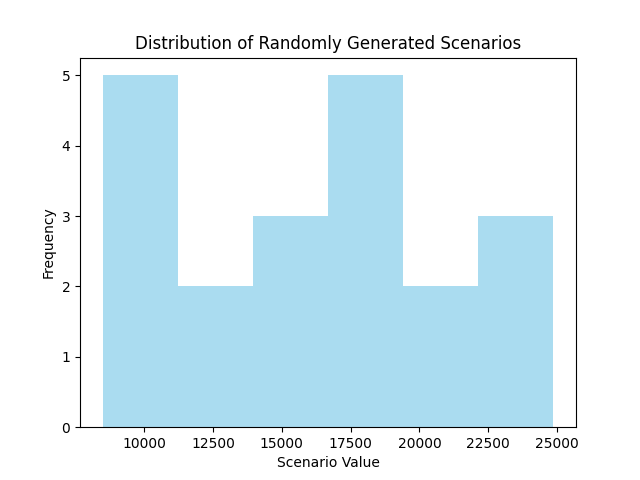
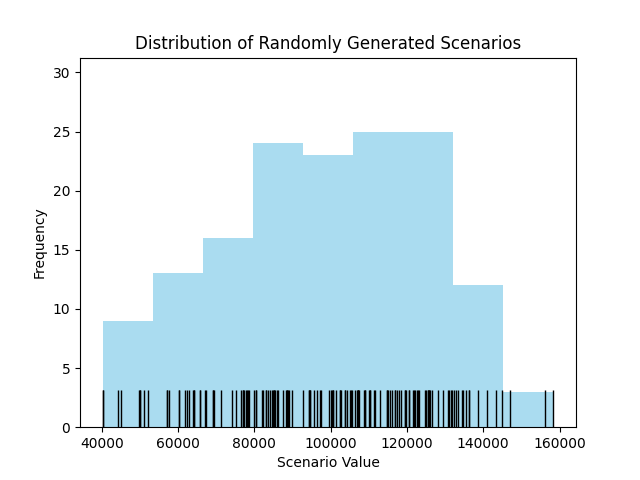
Fixing a bug with creating strategies. Modifying the front end. Creating a plotting function.

diff --git a/static/styles.css b/static/styles.css
@@ -1,31 +1,69 @@
 /* styles.css */
 
 .form-row {
-    display: flex;
-    align-items: center;
-    justify-content: space-between;
-    margin-bottom: 10px;
-  }
-  
-  .form-row label {
-    flex: 0 0 120px;
-    margin-right: 10px;
-  }
-  
-  .form-row input {
-    flex: 1 0 100px;
-  }
+  display: flex;
+  align-items: center;
+  justify-content: space-between;
+  margin-bottom: 10px;
+}
+
+.form-row label {
+  flex: 0 0 120px;
+  margin-right: 10px;
+}
+
+.form-row input {
+  flex: 1 0 100px;
+}
 
 
-  .form-container {
-    width: 500px;
-    margin: 0 auto;
-  }
+.form-container {
+  width: 500px;
+  margin: 0 auto;
+}
 
-  h1 {
-    text-align: center;
-  }
+h1 {
+  text-align: center;
+}
 
-  body {
-    font-family: 'Lato', sans-serif;
-  }
+.centered-nav {
+  display: flex;
+  justify-content: center;
+  margin-bottom: 20px;
+  background-color: #333;
+  padding: 10px;
+}
+
+.centered-nav ul {
+  list-style-type: none;
+  padding: 0;
+}
+
+.centered-nav ul li {
+  display: inline;
+  margin: 0 10px;
+}
+
+.centered-nav ul li a {
+  text-decoration: none;
+  color: #fff;
+  font-size: 24px;
+}
+
+
+body {
+  font-family: 'Lato', sans-serif;
+  background-color: #979797;
+}
+
+.container {
+  background-color: #fff;
+  padding: 20px;
+  border-radius: 8px;
+}
+
+.main-section {
+  background-color: #979797; /* Adjust the color as desired */
+  padding: 20px;
+  border-radius: 8px;
+}

diff --git a/templates/base.html b/templates/base.html
@@ -8,6 +8,19 @@
     {% block head %}{% endblock %}
 </head>
 <body>
-    {% block body %}{% endblock %}
+    <header>
+        <nav class="centered-nav">
+            <ul>
+                <li><a href="{{ url_for('buy') }}">Buy</a></li>
+                <li><a href="{{ url_for('sell') }}">Sell</a></li>
+                <li><a href="#">Scenario</a></li>
+            </ul>
+        </nav>
+    </header>
+    <div class="main-section">
+    <main>
+        {% block body %}{% endblock %}
+    </main>
+    </div>
 </body>
 </html>

diff --git a/templates/index.html b/templates/index.html
@@ -3,7 +3,6 @@
 {% endblock %}
 
 {% block body %}
-<a href="/buy.html">Buy</a>
-<a href="/sell.html">Sell</a>
+
 {% endblock %}
 

diff --git a/app.py b/app.py
@@ -3,9 +3,11 @@ import random
 from flask_sqlalchemy import SQLAlchemy
 from flask_wtf import FlaskForm
 import matplotlib
+import numpy as np
 matplotlib.use('Agg')
 import matplotlib.pyplot as plt
 import os
+import seaborn as sns
 from wtforms import Form, FloatField, IntegerField, StringField, SubmitField
 from wtforms.validators import DataRequired, NumberRange
 
@@ -44,8 +46,25 @@ def trunc(a, x):
     int1 = int(a * (10**x))/(10**x)
     return float(int1)
 
+def plot_histogram(data, filename):
+    # Generate histogram
+    plt.hist(data, bins='auto', color='skyblue', alpha=0.7)
+
+    # Add rug plot
+    sns.rugplot(data, height=0.1, color='black')
+
+    # Customize labels and title
+    plt.xlabel('Scenario Value')
+    plt.ylabel('Frequency')
+    plt.title('Distribution of Randomly Generated Scenarios')
+
+    # Save the modified histogram plot
+    plt.savefig(os.path.join(app.root_path, 'static', filename))
+    plt.close()
+
 def sell_order(coins, str_steps, price_normalize, scenario, file=None):
-    profit = 0    
+    profit = 0
+    file.write(f"Coins: {coins} - ")
     for i, val in enumerate(str_steps):
         try:
             val = int(val)
@@ -56,11 +75,13 @@ def sell_order(coins, str_steps, price_normalize, scenario, file=None):
             sell = sell_amount * int(val)
             coins -= sell_amount
             profit += sell
-            file.write(f"Sell order - Coins: {coins}, Step: {val}, Profit: {profit}\n")
+            file.write(f"at {val}, sold {sell_amount} for {sell}. Total Profit: {profit}\n")
+            file.flush()
     return profit, coins
 
 def buy_order(money, str_steps, price_normalize, scenario, file=None):
-    coins = 0    
+    coins = 0
+    file.write(f"Buy order - Coins: {coins}, Step: {val}, Money: {money}\n")
     for i, val in enumerate(str_steps):
         try:
             val = int(val)
@@ -71,30 +92,28 @@ def buy_order(money, str_steps, price_normalize, scenario, file=None):
             buy = buy_amount * int(val)
             money -= buy_amount
             coins += buy
-            file.write(f"Buy order - Coins: {coins}, Step: {val}, Money: {money}\n")
+            file.write(f"Coins: {coins}, Step: {val}, Money: {money}\n")
+            file.flush()
     return money, coins
 
-
-# Sell Strategies
-
-sell_bottom = 0
-sell_top = 1
-step_size = 1
-steps = 1
-step_increment = 1
 sell_strategies = []
 buy_strategies = []
 
 
 def create_sell_strategies(sell_bottom, sell_top, steps, step_increment):
+    sell_strategies.clear()
     for i in range(sell_bottom, sell_top, step_increment):
         for j in range(i+step_increment, sell_top+1, step_increment):
             sell_strategies.append({"name": f"Strategy {i}-{j}", "sell_top": j, "sell_bottom": i, "steps": steps})
 
 def create_buy_strategies(buy_bottom, buy_top, steps, step_increment):
+    buy_strategies.clear()
     for i in range(buy_bottom, buy_top, step_increment):
         for j in range(i+step_increment, buy_top+1, step_increment):
             buy_strategies.append({"name": f"Strategy {i}-{j}", "buy_top": j, "buy_bottom": i, "steps": steps})
+
+
+
  
 @app.route('/')
 def index():
@@ -113,23 +132,22 @@ def sell():
         mu = float(form.mu.data)
         sigma = float(form.sigma.data)
         number_sce = int(form.number_sce.data)
-
-        # Print form field values
-        # print("coins:", coins)
-        # print("sell_bottom:", sell_bottom)
-        # print("sell_top:", sell_top)
-        # print("steps:", steps)
-        # print("mu:", mu)
-        # print("sigma:", sigma)
-        # print("number_sce:", number_sce)
-       
+      
         create_sell_strategies(sell_bottom, sell_top, steps, step_increment)
         scenarios = [random.gauss(mu, sigma) for i in range(number_sce)]
+        scenarios_str = ', '.join(map(str, scenarios))
+        plot_histogram(scenarios, 'histogram.png')
         with open('sell_report.txt', 'w') as file:
+            file.write(f"User input: coins: {coins}, sell_bottom: {sell_bottom}, sell_top: {sell_top,}, steps: {steps}, step_increment: {step_increment}, mu: {mu}, sigma: {sigma}, number_sce: {number_sce}\n\n")
+            file.write(f"Sell Strategies:\n{sell_strategies}\n\n")
+            file.write(f"Scenarios\n{scenarios_str}\n\n")
+            file.flush()
             for strategy in sell_strategies:
                 total_profit = 0
                 step_size = (strategy["sell_top"] - strategy["sell_bottom"]) / (strategy["steps"] - 1)
                 str_steps = []
+                file.write(f"\nStrategy: {strategy}\n")
+                file.flush()
                 for i in range(strategy["steps"]):
                     price = strategy["sell_bottom"] + (i * step_size)
                     str_steps.append(price)
@@ -140,6 +158,7 @@ def sell():
                 price_normalize = price_sum / price_denom
                 # print(price_normalize)
                 for scenario in scenarios:
+                    file.write(f"\nScenario: {scenario}\n")
                     coins = float(form.coins.data)
                     profit, coins = sell_order(coins, str_steps, price_normalize, scenario, file=file)
                     total_profit += profit
@@ -149,13 +168,6 @@ def sell():
                 strategy_profits.append((strategy['name'], avg_profit))
                         
         sorted_strategies = sorted(strategy_profits, key=lambda x: x[1], reverse=True)       
-        plt.hist(scenarios, bins='auto', color='skyblue', alpha=0.7)
-        plt.xlabel('Scenario Value')
-        plt.ylabel('Frequency')
-        plt.title('Distribution of Randomly Generated Scenarios')
-        plt.savefig(os.path.join(app.root_path, 'static', 'histogram.png'))
-        plt.close()
-
 
         if not strategy_profits:
             flash('No results found.', 'warning')
@@ -168,6 +180,7 @@ def sell():
 def buy():
     form = BuyForm()
     strategy_amounts = []
+    # Validate forms
     if form.validate_on_submit():
         money = float(form.money.data)
         buy_bottom = int(form.buy_bottom.data)
@@ -177,15 +190,15 @@ def buy():
         mu = float(form.mu.data)
         sigma = float(form.sigma.data)
         number_sce = int(form.number_sce.data)
-
         # Generate scenarios
         scenarios = [random.gauss(mu, sigma) for _ in range(number_sce)]
-
+        # Plot histogram
+        plot_histogram(scenarios, 'histogram.png')
         # Create buy strategies
-        create_buy_strategies(buy_bottom, buy_top, steps, step_increment)
-        
+        create_buy_strategies(buy_bottom, buy_top, steps, step_increment)        
         # Calculate total number of coins bought for each strategy
         strategy_results = []
+        
         with open('buy_report.txt', 'w') as file:
             for strategy in buy_strategies:
                 total_coins = 0
@@ -211,13 +224,6 @@ def buy():
                 strategy_amounts.append((strategy['name'], avg_coins))
                      
         sorted_strategies = sorted(strategy_amounts, key=lambda x: x[1], reverse=True)       
-        plt.hist(scenarios, bins='auto', color='skyblue', alpha=0.7)
-        plt.xlabel('Scenario Value')
-        plt.ylabel('Frequency')
-        plt.title('Distribution of Randomly Generated Scenarios')
-        plt.savefig(os.path.join(app.root_path, 'static', 'histogram.png'))
-        plt.close()
-
 
         if not strategy_amounts:
             flash('No results found.', 'warning')
